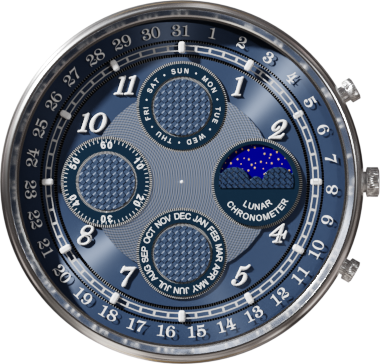
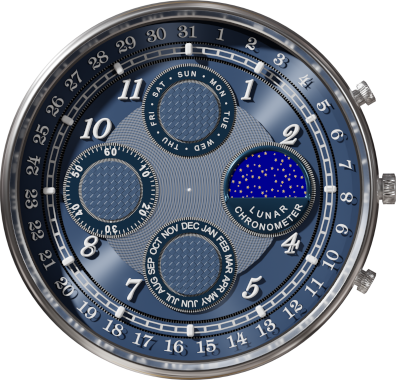
Nowa tarcza chronograph2

diff --git a/mainwindow.cpp b/mainwindow.cpp
@@ -6386,12 +6386,12 @@ void MainWindow::wstepne_wpisanie_cyferblatow()
                                       ":/new/prefix1/content/wtla-chronoswiss-sekundnik.png",
                                       ":/new/prefix1/content/center.png",
 
-                                      0.0001,  0.015,
-                                      0.10 ,  0.72, // os godzinowej, skala
+                                      0.0,  0.0,
+                                      0.10 , 0.72, // os godzinowej, skala
                                       QColor(66, 21, 2),   // kolor wskaz godzinowej
 
-                                      -0.0001,    0.06,
-                                      0.01,  0.88,// os minutowej
+                                      0.0,    0.00,
+                                      0.01, 0.9,               // os minutowej
                                       QColor(66, 21, 2),   // kolor wskaz minutowej
 
                                       0,    0.0,
@@ -6400,14 +6400,14 @@ void MainWindow::wstepne_wpisanie_cyferblatow()
                                       QColor(250, 10, 10),   // kolor wskaz sekundnika
 
 
-                                      181, 181,  // pozycja srodka tarczy
-                                      0.05,  0.05,   // skalowanie zaślepki
-                                      135,  // promien_ tarczy
+                                      190, 189,  // pozycja srodka tarczy
+                                       0.15,  0.15,   // skalowanie zaślepki
+                                      142,  // promien_ tarczy
 
                                       0, 0,  // -70, 0,  // translacja do odrebnej osi sekundnika (x,y w % promienia)
 
-                                      0.57, -0.17, // pozycja księzyca
-                                      0.09 ,        // i wsp skali jego bitmapy
+                                      0.55, -0.10, // pozycja księzyca
+                                      0.15 ,        // i wsp skali jego bitmapy
 
                                       QPoint(0, 38),    // pozycja AM_PM ( % z dlug promienia)
                                       QColor(250,250, 250),   // kolor AM_PM
@@ -6436,9 +6436,9 @@ void MainWindow::wstepne_wpisanie_cyferblatow()
                                              "noname",
                                              ":/new/prefix1/content/wtla-chronoswiss-days.png",
                                              0, // os_x    mimosrod       // w %
-                                             0.05, //  os_y;  mimosrod       // w %
+                                             0, // 0.05, //  os_y;  mimosrod       // w %
                                              0.01, // skala_x (grubosc dla wsk wektorowej),
-                                             1.18, // % dlugosc wsk (wekt i bitmapowej)
+                                             1.14, // % dlugosc wsk (wekt i bitmapowej)
                                              &pix_wskazowka_dni_miesiaca,
                                              QColor(255, 0, 0),  //  QColor kolor;
                                              false, //  flag_bitmapa_moze_byc_kolorowana;
@@ -6457,7 +6457,7 @@ void MainWindow::wstepne_wpisanie_cyferblatow()
     cyferblat.back().dodaj_extra_wskazowke(   // SEKUNDNIK DODATKOWY
                                               &  cyferblat.back().wsk_sekundnik_dodatkowy,
                                               Rola_wskazowki::wsk_sekundnik_dodatkowy,
-                                              -75,  // x pozycja osi  na tarczy
+                                              -81,  // x pozycja osi  na tarczy
                                               0, // y pozycja osi  na tarczy
                                               "extra: chronoswiss-sekundnik_maly",
                                               ":/new/prefix1/content/wtla-chronoswiss-sekundnik_maly.png",
@@ -6488,7 +6488,7 @@ void MainWindow::wstepne_wpisanie_cyferblatow()
                                                &  cyferblat.back().wsk_miesiaca,
                                                Rola_wskazowki::wsk_miesiaca,
                                                0,  // x pozycja osi  na tarczy
-                                               74, // y pozycja osi  na tarczy
+                                               78, // y pozycja osi  na tarczy
                                                "noname",
                                                ":/new/prefix1/content/wtla-chronoswiss-miesiace.png",
                                                0, // os_x    mimosrod       // w %
@@ -6514,7 +6514,7 @@ void MainWindow::wstepne_wpisanie_cyferblatow()
                 &  cyferblat.back().wsk_dni_tygodnia,   //MONDAY, TUESDAY...
                 Rola_wskazowki::wsk_full_date,
                 0,  // x pozycja osi  na tarczy
-                -74, // y pozycja osi  na tarczy
+                -79, // y pozycja osi  na tarczy
                 "noname",
                 ":/new/prefix1/content/wtla-chronoswiss-miesiace.png",
                 0, // os_x    mimosrod       // w %

diff --git a/ui_tedytor_alarmow_dlg.h b/ui_tedytor_alarmow_dlg.h
@@ -86,6 +86,7 @@ public:
     QRadioButton *radioButton_odd;
     QLabel *label__current_week_nr;
     QLabel *label__info;
+    QCheckBox *checkBox_skipped_alarms;
     QGroupBox *groupBox;
     QVBoxLayout *verticalLayout_8;
     QCheckBox *checkBox_pokaz_okno;
@@ -108,13 +109,13 @@ public:
     QLineEdit *lineEdit_nazwa_programu;
     QToolButton *toolButton_nazwy_programu;
     QCheckBox *checkBox_wylacz_komputer;
-    QDialogButtonBox *buttonBox;
+    QDialogButtonBox *dialogButtonBox;
 
     void setupUi(QDialog *Tedytor_alarmow_dlg)
     {
         if (Tedytor_alarmow_dlg->objectName().isEmpty())
             Tedytor_alarmow_dlg->setObjectName("Tedytor_alarmow_dlg");
-        Tedytor_alarmow_dlg->resize(1147, 767);
+        Tedytor_alarmow_dlg->resize(806, 776);
         Tedytor_alarmow_dlg->setMaximumSize(QSize(16777215, 902));
         Tedytor_alarmow_dlg->setLocale(QLocale(QLocale::English, QLocale::UnitedKingdom));
         verticalLayout_11 = new QVBoxLayout(Tedytor_alarmow_dlg);
@@ -366,6 +367,11 @@ public:
 
         verticalLayout_11->addWidget(label__info);
 
+        checkBox_skipped_alarms = new QCheckBox(Tedytor_alarmow_dlg);
+        checkBox_skipped_alarms->setObjectName("checkBox_skipped_alarms");
+
+        verticalLayout_11->addWidget(checkBox_skipped_alarms);
+
         groupBox = new QGroupBox(Tedytor_alarmow_dlg);
         groupBox->setObjectName("groupBox");
         verticalLayout_8 = new QVBoxLayout(groupBox);
@@ -376,12 +382,14 @@ public:
         verticalLayout_8->addWidget(checkBox_pokaz_okno);
 
         horizontalLayout_2 = new QHBoxLayout();
+        horizontalLayout_2->setSpacing(6);
         horizontalLayout_2->setObjectName("horizontalLayout_2");
         horizontalSpacer = new QSpacerItem(40, 20, QSizePolicy::Policy::Expanding, QSizePolicy::Policy::Minimum);
 
         horizontalLayout_2->addItem(horizontalSpacer);
 
         verticalLayout_6 = new QVBoxLayout();
+        verticalLayout_6->setSpacing(3);
         verticalLayout_6->setObjectName("verticalLayout_6");
         label_5 = new QLabel(groupBox);
         label_5->setObjectName("label_5");
@@ -485,17 +493,17 @@ public:
 
         verticalLayout_11->addWidget(groupBox);
 
-        buttonBox = new QDialogButtonBox(Tedytor_alarmow_dlg);
-        buttonBox->setObjectName("buttonBox");
-        buttonBox->setOrientation(Qt::Orientation::Horizontal);
-        buttonBox->setStandardButtons(QDialogButtonBox::StandardButton::Cancel|QDialogButtonBox::StandardButton::Ok);
+        dialogButtonBox = new QDialogButtonBox(Tedytor_alarmow_dlg);
+        dialogButtonBox->setObjectName("dialogButtonBox");
+        dialogButtonBox->setOrientation(Qt::Orientation::Horizontal);
+        dialogButtonBox->setStandardButtons(QDialogButtonBox::StandardButton::Cancel|QDialogButtonBox::StandardButton::Ok);
 
-        verticalLayout_11->addWidget(buttonBox);
+        verticalLayout_11->addWidget(dialogButtonBox);
 
 
         retranslateUi(Tedytor_alarmow_dlg);
-        QObject::connect(buttonBox, &QDialogButtonBox::accepted, Tedytor_alarmow_dlg, qOverload<>(&QDialog::accept));
-        QObject::connect(buttonBox, &QDialogButtonBox::rejected, Tedytor_alarmow_dlg, qOverload<>(&QDialog::reject));
+        QObject::connect(dialogButtonBox, &QDialogButtonBox::accepted, Tedytor_alarmow_dlg, qOverload<>(&QDialog::accept));
+        QObject::connect(dialogButtonBox, &QDialogButtonBox::rejected, Tedytor_alarmow_dlg, qOverload<>(&QDialog::reject));
 
         QMetaObject::connectSlotsByName(Tedytor_alarmow_dlg);
     } // setupUi
@@ -524,6 +532,7 @@ public:
         radioButton_odd->setText(QCoreApplication::translate("Tedytor_alarmow_dlg", "ODD", nullptr));
         label__current_week_nr->setText(QCoreApplication::translate("Tedytor_alarmow_dlg", "TextLabel", nullptr));
         label__info->setText(QCoreApplication::translate("Tedytor_alarmow_dlg", "TextLabel_INFO", nullptr));
+        checkBox_skipped_alarms->setText(QCoreApplication::translate("Tedytor_alarmow_dlg", "Notify if this alarm was skipped while Zegar was not running", nullptr));
         groupBox->setTitle(QCoreApplication::translate("Tedytor_alarmow_dlg", "Task to do during an alarm", nullptr));
         checkBox_pokaz_okno->setText(QCoreApplication::translate("Tedytor_alarmow_dlg", "Show alarm window", nullptr));
         label_5->setText(QCoreApplication::translate("Tedytor_alarmow_dlg", "Message in the alarm window", nullptr));